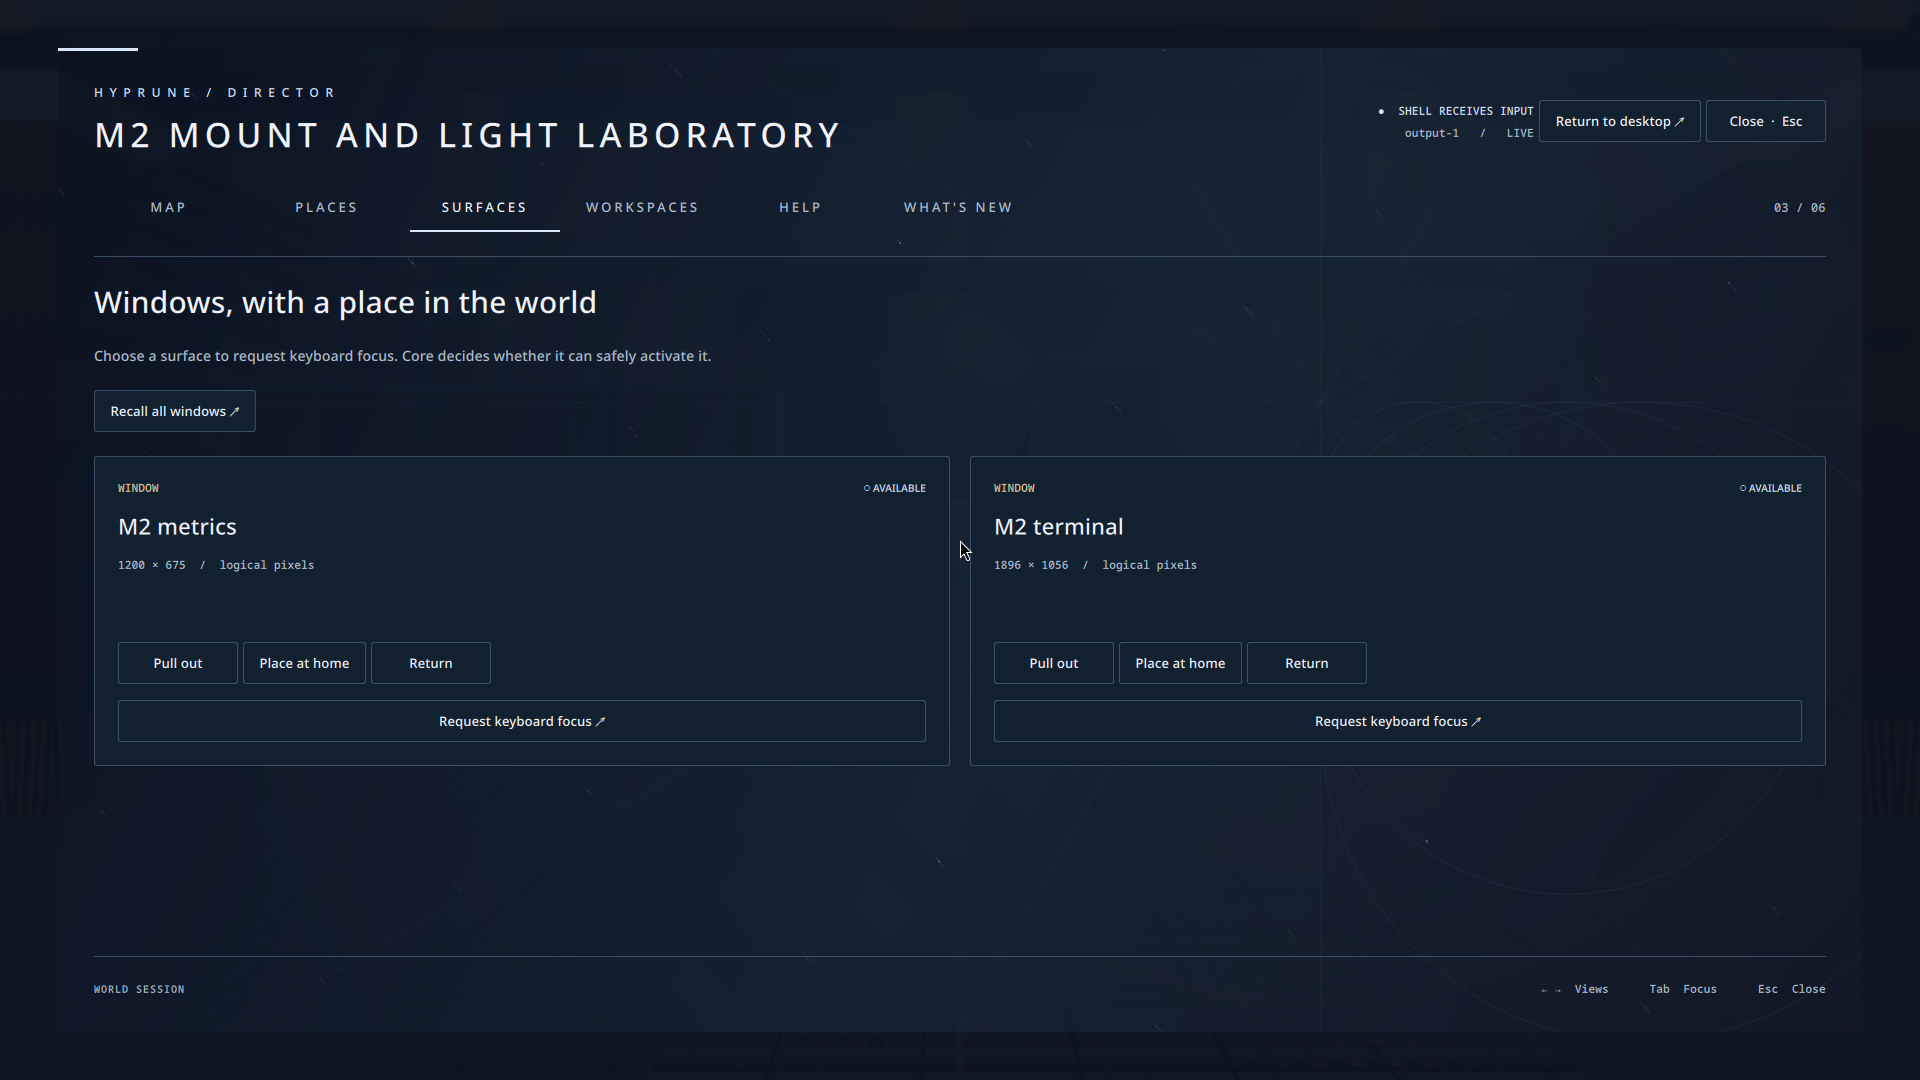
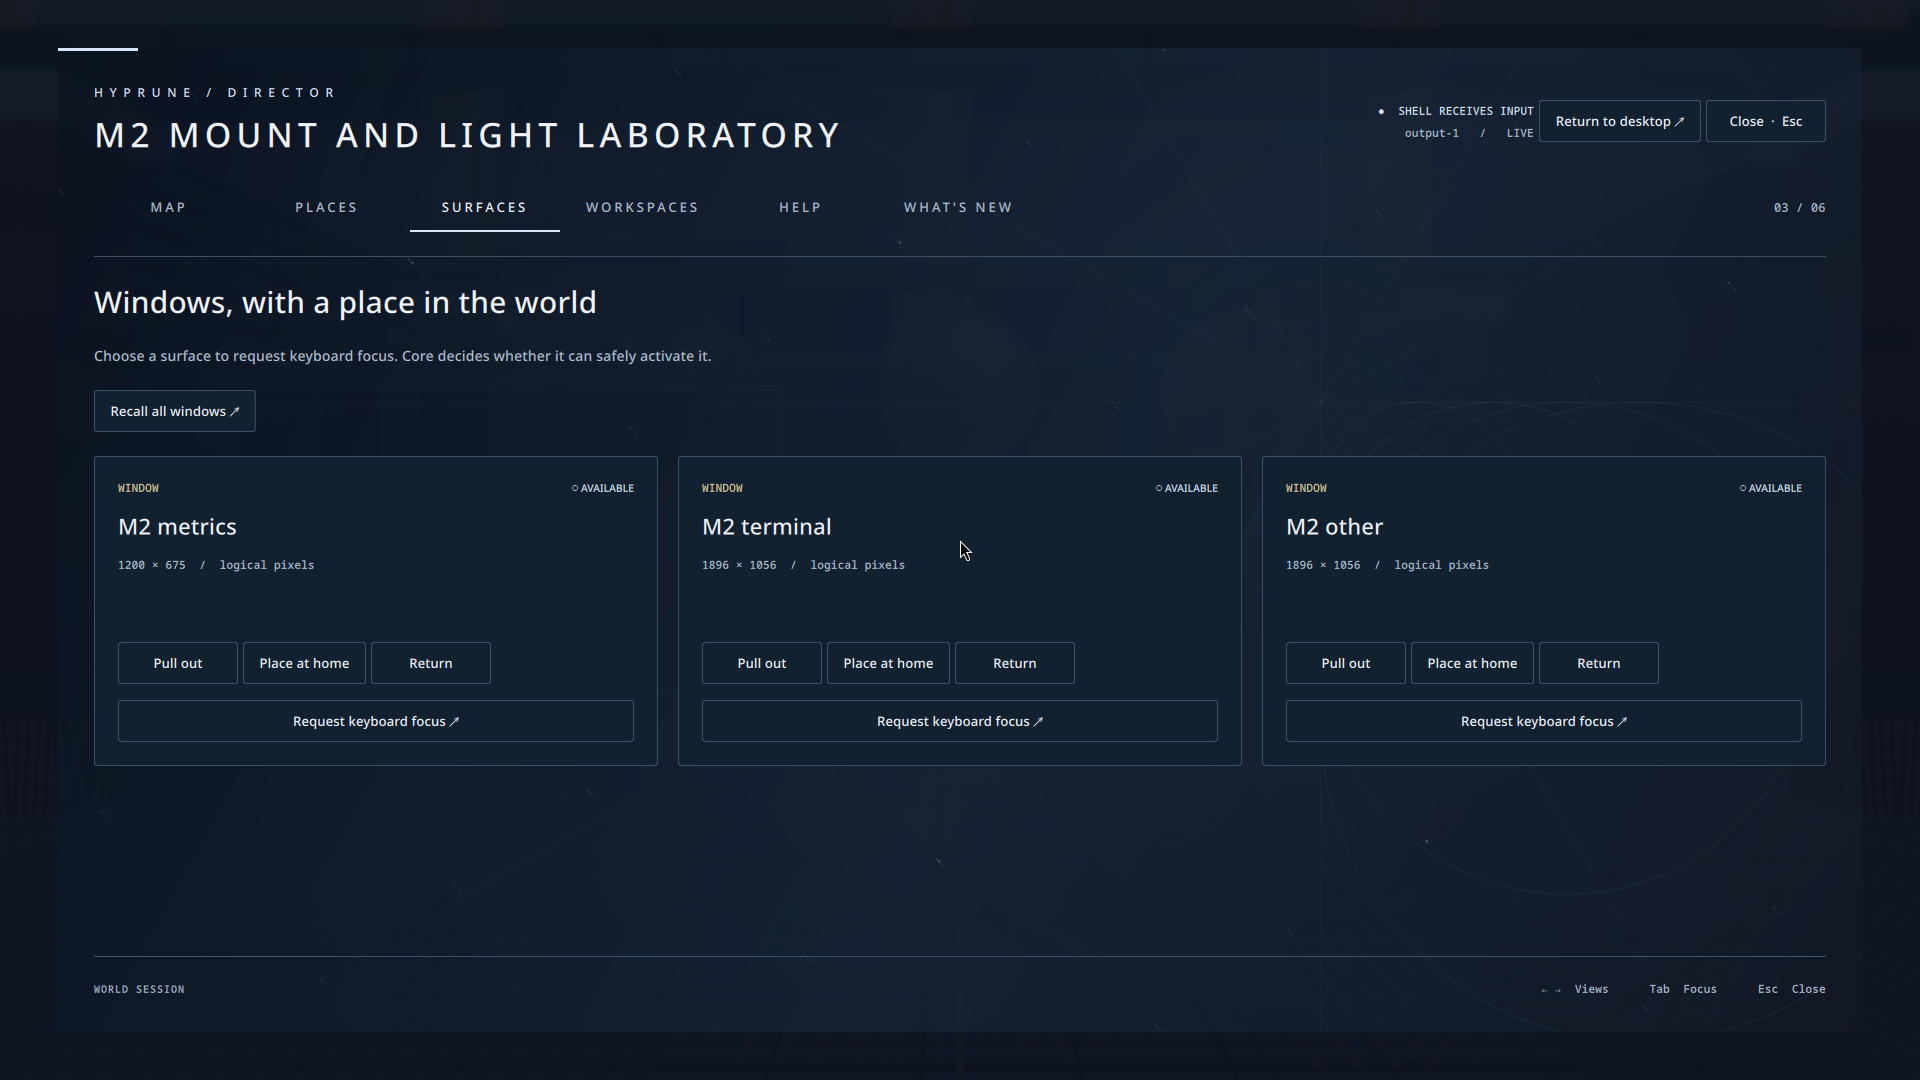
Record final multi-home interaction and compatibility acceptance

diff --git a/docs/M2.md b/docs/M2.md
@@ -97,10 +97,17 @@ placement, native click/type into a checked file, scroll/drag with balanced seat
 buttons, relaunch restoration, stock desktop focus, same-world travel, cross-world
 warp, FOV/profile changes, changed-package relocation and the actual Director
 Recall button. All 691 responses and 1,729 notifications validate against IPC 0.4.
+The final follow-up run validates another 146 responses and 746 notifications,
+including native click/type on an Array Hall tool while Sun Court is selected,
+with camera position retained. Package captures read only the isolated installed
+manifest so concurrent world baking cannot remove their source.
 The real Lumen Reach package additionally loads and reaches its globe platform
 from arrival through the declared ramp graph. M1 regression covers older IPC,
-live hidden workspace capture, daemon death restoring the desktop in 0.053 s,
-and three active plugin unload/reload cycles. Recorded evidence, package/plugin
+live hidden workspace capture, daemon death restoring the desktop in 0.052 s,
+and three active plugin unload/reload cycles. The IPC 0.3 first-session regression
+also passes HUD isolation, exclusive Director input, Map waypoint/autodrive,
+travel, live app input and workspace warps. Its harness now waits for the arrival
+overlay to clear before checking HUD layers. Recorded evidence, package/plugin
 hashes and complete result logs are in [m2-acceptance.json](evidence/m2-acceptance.json).
 
 The captured Lumen package contains Sun Court and Array Hall; later areas are
@@ -148,7 +155,9 @@ produced separately. Unretouched fixture, Director and Sun Court images are
 retained under `docs/evidence/`.
 
 Pointer motion changes while an app is focused: relative deltas now update the
-world reticle and project onto the surface. New seat focus/button delivery runs
+world reticle and project onto the surface. Clicking a pulled tool of a hidden
+workspace selects that native workspace without moving away from the mount;
+legacy hidden workspace surfaces retain their prior rejection. New seat focus/button delivery runs
 through tracked `doLater` callbacks; keyboard and ordinary desktop motion retain
 the native paths. Cursor image, hardware-plane and visibility management were
 not changed. Nested headless output cannot validate hardware cursors. A supervised
